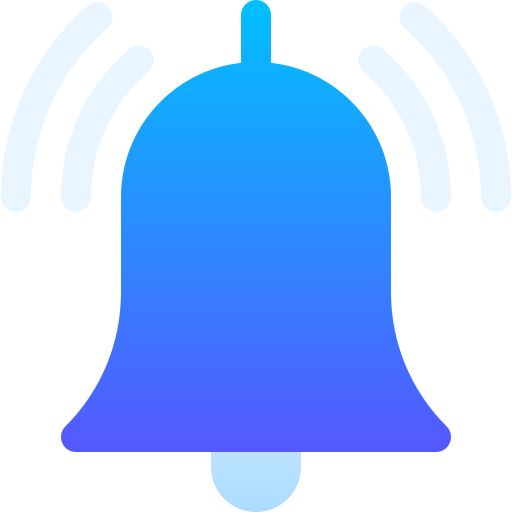
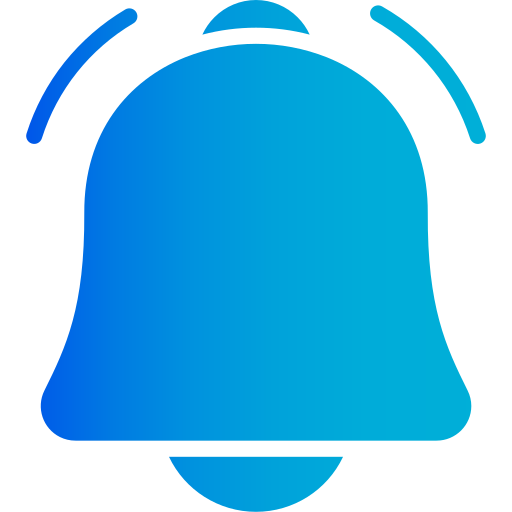
nav done

diff --git a/src/app/components/Navbar.jsx b/src/app/components/Navbar.jsx
@@ -3,6 +3,8 @@ import Image from 'next/image'
 import Logo from '../../../public/logo.svg'
 import Menu from '../../../public/menu.png'
 import Dp from '../../../public/home.png'
+import Chat from '../../../public/chat.png'
+import Bell from '../../../public/bell.png'
 
 
 export default function Navbar() {
@@ -19,15 +21,32 @@ export default function Navbar() {
   <div className='flex-1 hidden sm:block'>
     Workspace
   </div>
-
-    <div className="dropdown dropdown-end justify-items-end flex-none">
+   {/**icons */} 
       <label tabIndex={0} className="btn btn-ghost btn-circle avatar">
+        <div className="w-6 rounded-full">
+          <Image
+          src={Chat}
+          alt="chat"
+          />
+        </div>
+      </label>
+      <label tabIndex={0} className="btn btn-ghost btn-circle avatar">
+        <div className="w-6 rounded-full">
+          <Image
+          src={Bell}
+          alt="bell"
+          />
+        </div>      
+      </label>
+      {/**last icon and dropdown */}
+    <div className="dropdown dropdown-end justify-items-end flex flex-row">
+      <label tabIndex={0} className="btn btn-ghost btn-circle avatar">      
         <div className="w-7 rounded-full">
           <Image
           src={Dp}
           alt="dp"
           />
-        </div>
+        </div>       
       </label>
       <ul tabIndex={0} className="mt-3 z-[1] p-2 shadow menu menu-sm dropdown-content bg-base-100 rounded-box w-52">
         <li>
@@ -40,6 +59,7 @@ export default function Navbar() {
         <li><a>Logout</a></li>
       </ul>
     </div>
+
 
 
 
